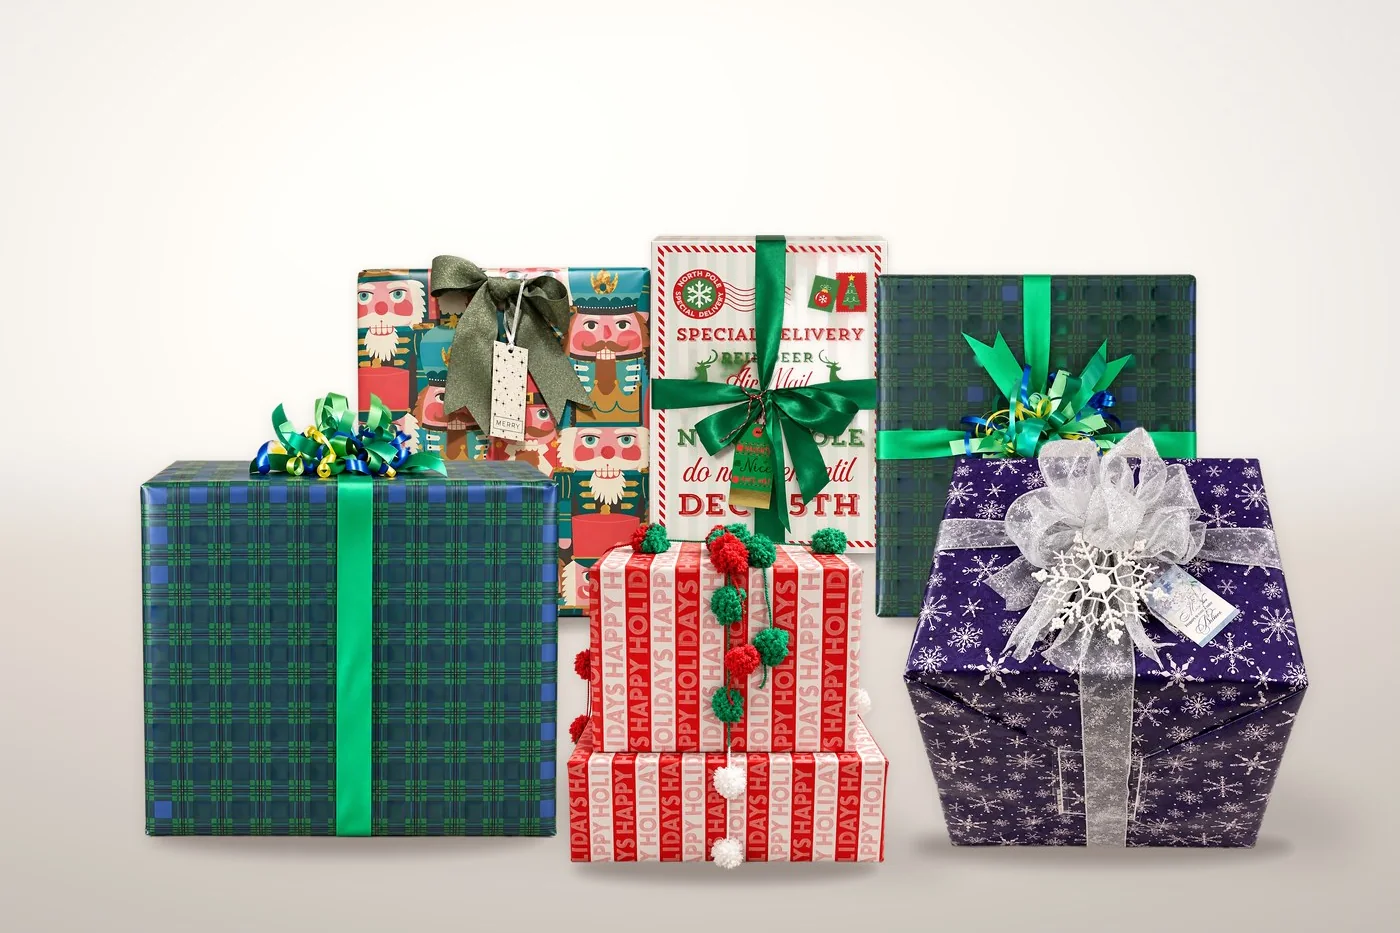
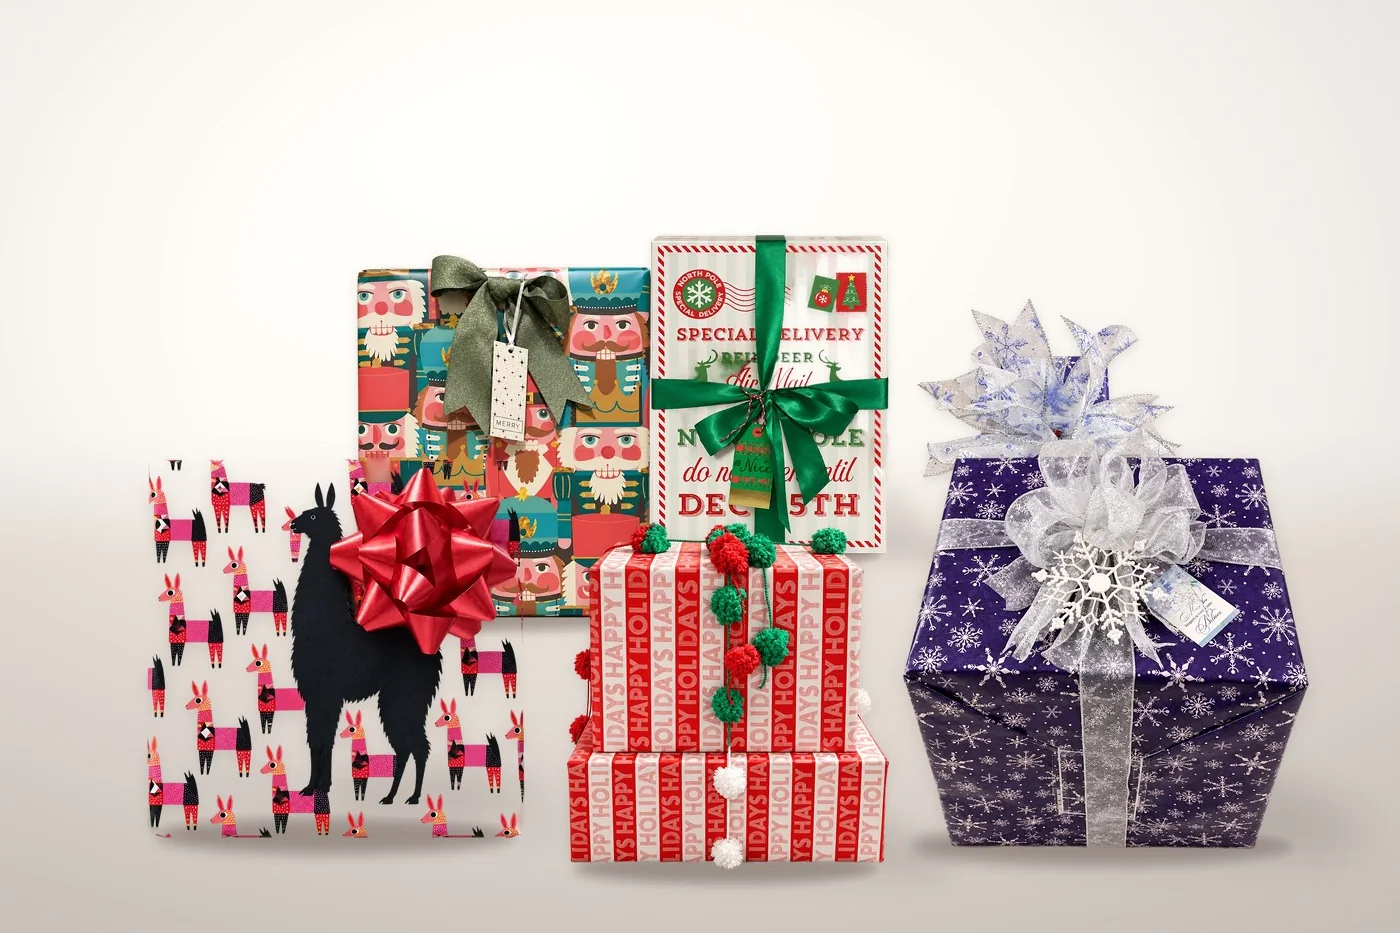
Christmas stack: swap plaid gifts for llama and snowflake gifts
Claude-Session: https://claude.ai/code/session_016JQtQKJMKXSfWYB8dAVTZy

Changed region(s): [[0.0921, 0.4041, 0.3993, 0.9014], [0.6143, 0.2797, 0.86, 0.6838]]

diff --git a/thank-you/index.html b/thank-you/index.html
@@ -80,11 +80,11 @@
   <span class="kicker">Thank you</span><h1>Your request has been received</h1><p class="lede">We will reply within one business day with your free quote and next steps. For anything urgent, text 540-340-4905.</p>
 </div></div>
 <section><div class="wrap" style="text-align:center"><div class="gift-tile reveal in" style="background:#fde4ee;width:220px;margin:0 auto 24px"><svg viewBox="0 0 200 200" aria-hidden="true">
-<defs><pattern id="d40231" width="10" height="10" patternUnits="userSpaceOnUse"><circle cx="5" cy="5" r="1.8" fill="#fff"/></pattern></defs>
+<defs><pattern id="d60388" width="10" height="10" patternUnits="userSpaceOnUse"><circle cx="5" cy="5" r="1.8" fill="#fff"/></pattern></defs>
 <rect x="30" y="86" width="140" height="94" rx="8" fill="#fff"/>
 <rect x="22" y="70" width="156" height="30" rx="5" fill="#fde4ee" stroke="#fff" stroke-width="2"/>
-<rect x="86" y="70" width="28" height="110" fill="#e5648f"/><rect x="86" y="70" width="28" height="110" fill="url(#d40231)"/>
-<rect x="22" y="78" width="156" height="14" fill="#e5648f"/><rect x="22" y="78" width="156" height="14" fill="url(#d40231)"/>
+<rect x="86" y="70" width="28" height="110" fill="#e5648f"/><rect x="86" y="70" width="28" height="110" fill="url(#d60388)"/>
+<rect x="22" y="78" width="156" height="14" fill="#e5648f"/><rect x="22" y="78" width="156" height="14" fill="url(#d60388)"/>
 <path d="M100 74c-14-4-40-26-30-38s26 18 30 38zm0 0c14-4 40-26 30-38s-26 18-30 38z" fill="#b23a5e"/>
 <path d="M100 74c-6 6-18 18-26 12s10-16 26-12zm0 0c6 6 18 18 26 12s-10-16-26-12z" fill="#e5648f"/>
 <circle cx="100" cy="72" r="8" fill="#b23a5e"/><circle cx="97" cy="69" r="2.5" fill="#fff" opacity=".7"/>

diff --git a/index.html b/index.html
@@ -92,7 +92,7 @@
       </ul>
     </div>
     <div class="hero-art">
-      <div class="hero-photo" style="aspect-ratio:3/2"><img src="/assets/photos/land-christmas-stack.webp" alt="A styled display of six Christmas gifts wrapped by All Wrapped Up: plaid, nutcracker, North Pole, pom-pom stripe and purple snowflake papers with hand-tied bows" width="1400" height="933"></div>
+      <div class="hero-photo" style="aspect-ratio:3/2"><img src="/assets/photos/land-christmas-stack.webp" alt="A styled display of six Christmas gifts wrapped by All Wrapped Up: llama print with a red bow, nutcracker, North Pole special delivery, pom-pom stripe and purple snowflake papers with hand-tied bows" width="1400" height="933"></div>
       <div class="hero-badge"><strong>Now booking</strong>Holiday 2026 orders</div>
     </div>
   </div>

diff --git a/build.py b/build.py
@@ -353,7 +353,7 @@ HOME_QUOTE = f'''<section class="pinkbg" id="free-quote">
 # Home page hero photo: (file stem in assets/photos, alt text, (width, height), CSS aspect ratio of the frame)
 # Hero photo rotates by season: the Christmas stack from October through December 26,
 # the rainbow box the rest of the year. Rebuild (python3 build.py) to pick up the change.
-HERO_HOLIDAY = ("land-christmas-stack", "A styled display of six Christmas gifts wrapped by All Wrapped Up: plaid, nutcracker, North Pole, pom-pom stripe and purple snowflake papers with hand-tied bows", (1400, 933), "3/2")
+HERO_HOLIDAY = ("land-christmas-stack", "A styled display of six Christmas gifts wrapped by All Wrapped Up: llama print with a red bow, nutcracker, North Pole special delivery, pom-pom stripe and purple snowflake papers with hand-tied bows", (1400, 933), "3/2")
 HERO_EVERYDAY = ("sq-rainbow-box", "Large gift box in watercolor-dot paper with aqua and confetti ribbon, wrapped by All Wrapped Up", (1200, 1200), "1/1")
 _today = datetime.date.today()
 HERO_PHOTO = HERO_HOLIDAY if (_today.month in (10, 11) or (_today.month == 12 and _today.day <= 26)) else HERO_EVERYDAY
